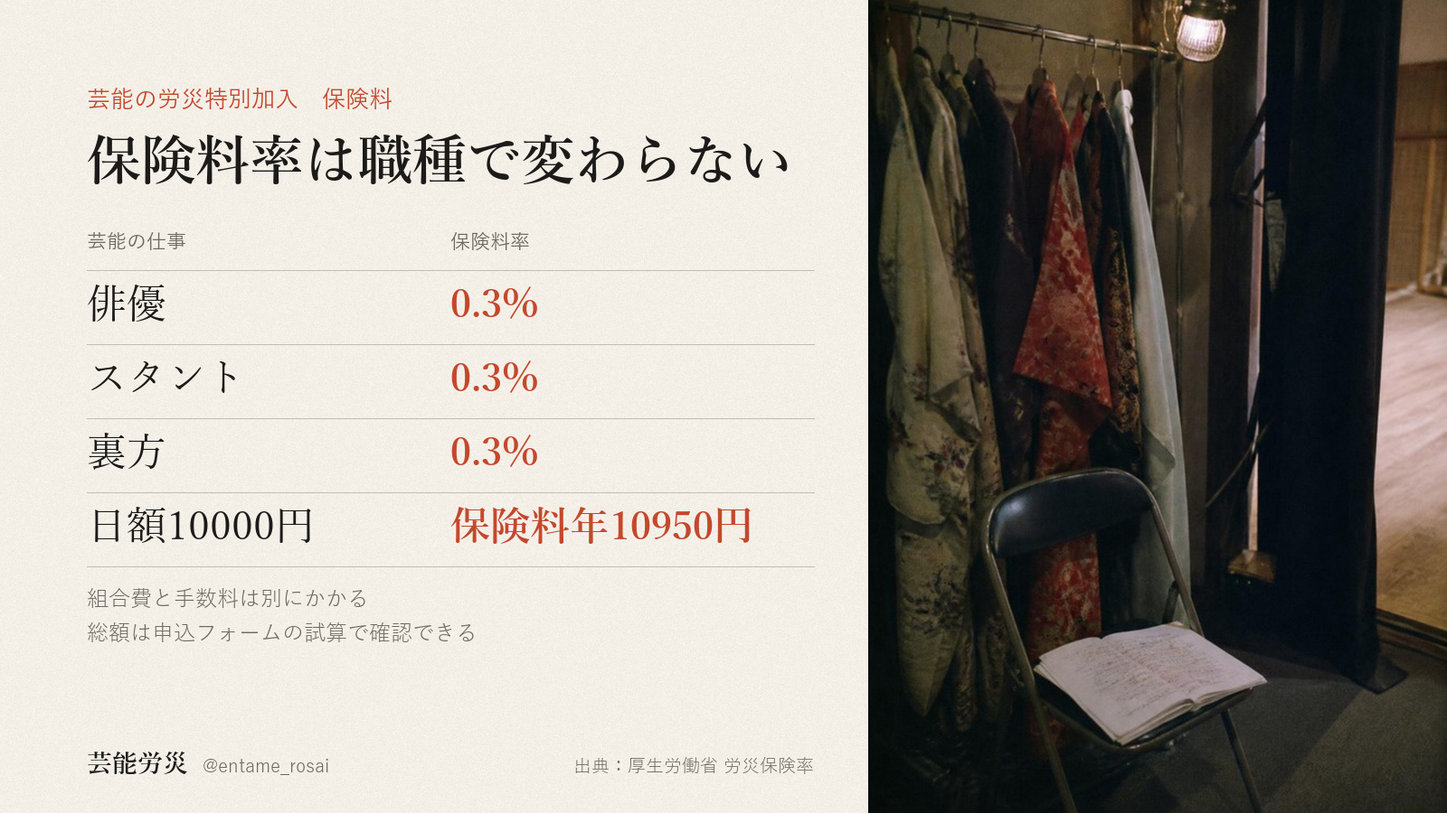
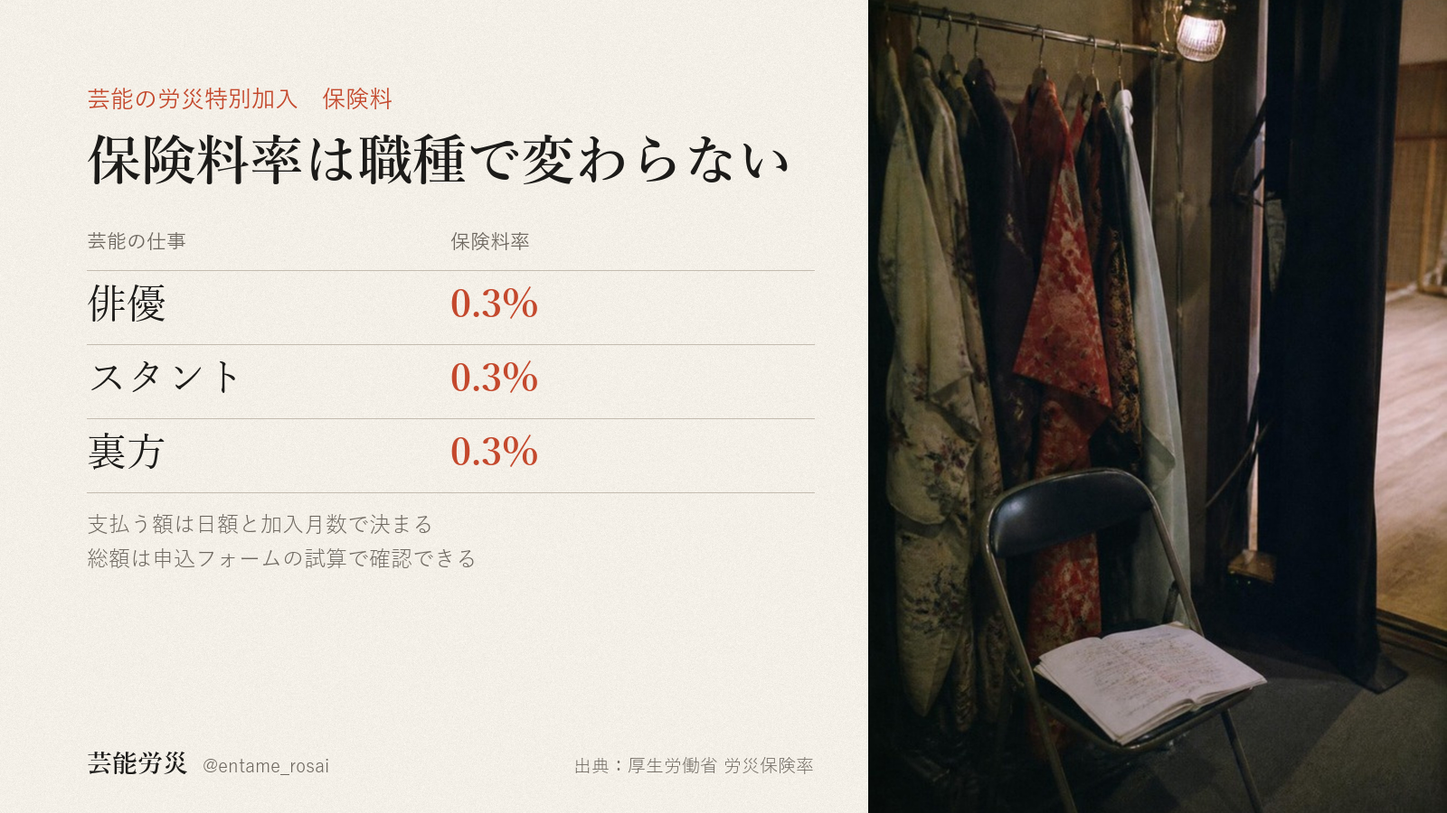
投稿デスク更新 2026-11-23（総額表記を修正）

Changed region(s): [[0.0625, 0.6222, 0.3125, 0.8089], [0.3125, 0.6222, 0.5312, 0.6844], [0.1875, 0.7778, 0.2188, 0.8089]]

diff --git a/index.html b/index.html
@@ -351,7 +351,7 @@ dialog img{width:100%;height:auto;border-radius:18px;display:block}
 <div class="toast" id="toast">コピーしました</div>
 <dialog id="zoom"><img alt=""></dialog>
 
-<script id="desk-data" type="application/json">{"account":"@entame_rosai","days":[{"date":"2026-11-23","label":"11月23日（月）　今日","items":[{"key":"ig","date":"2026-11-01","label":"Instagram（@entame_rosai）","account":"@entame_rosai","text":"労災の特別加入は、申込のときに「何月から入るか」「何か月入るか」「給付基礎日額をいくらにするか」の3つを自分で決めます。\n\n何月から入るかは、11月1日時点の申込フォームでは2026年11月から2027年3月までの中から選べます。何か月入るかは1か月から。公演や撮影の期間に合わせて決められます。\n\n給付基礎日額は、補償の基準になる1日あたりの額です。3,500円から25,000円までの16段階から、実際の収入とは切り離して自分で選びます。\n\n毎月の支払いは、日額10,000円を選んだ場合で月1,600円。内訳は保険料912円、組合費500円、手数料188円です。ほかに入会事務手数料2,000円が初月だけかかるので、初月の支払いは3,600円です。保険料912円の部分は社会保険料控除の対象です。\n\nひとつ大事なことがあります。さかのぼって入ることはできません。補償は申込で選んだ月から始まり、それより前のけがは対象になりません。現場の予定が決まったら、先に手続きを済ませておく形です。\n\n手続きはプロフィール欄のサイトからできます。迷う点があれば、コメントに書いてもらえれば調べます。\n\n私たちは東京労働局長の承認を受けた労災保険特別加入団体で、加入の受付もしている当事者です。そのうえで書いています。特別加入を扱う団体は、私たちのほかにもあります。\n\n※給付の可否・金額は個別の状況により労働基準監督署が判断します。\n※金額は、給付基礎日額10,000円を選んだ場合の例です。","chars":628,"lines":16,"hashtags":0,"limit":0,"status":"生成済・未投稿（本人の投稿許可あり。Chrome で instagram.com を開く操作が承認待ちのまま5分応答がなく送信されず。次に本人がいるときに投稿する）","url":"","images":[{"name":"01.png","path":"assets/2026-11-01/instagram/01.png"},{"name":"02.png","path":"assets/2026-11-01/instagram/02.png"},{"name":"03.png","path":"assets/2026-11-01/instagram/03.png"},{"name":"04.png","path":"assets/2026-11-01/instagram/04.png"},{"name":"05.png","path":"assets/2026-11-01/instagram/05.png"},{"name":"06.png","path":"assets/2026-11-01/instagram/06.png"},{"name":"07.png","path":"assets/2026-11-01/instagram/07.png"}],"alt":"--- 1枚目 ---\n暗い劇場の舞台の縁に腰かけ、赤い客席を見ている人の後ろ姿の写真。文字：フリーランスの労災保険。加入の手続き。申込で決めることと毎月の支払い。さかのぼって入ることはできないので、先に手続きの中身をまとめました。芸能労災 @entame_rosai 01/07\n\n--- 2枚目 ---\n上半分は夕方の住宅街の路上で、ブームマイクを掲げる録音係とカメラを担ぐ撮影係の後ろ姿の写真。下は生成り色の紙面。文字：申込で決めること1。何月から入るか。開始月は申込のときに選びます。11月1日時点では、2026年11月から2027年3月までの中から選べます。補償は、選んだ月から始まります。出典：当団体申込フォーム（11月1日時点）。02/07\n\n--- 3枚目 ---\n右に、屋外のカメラ機材とモニターを操作する手の縦長写真。左は紙面。文字：申込で決めること2。何か月入るか。加入期間は1か月から選べます。公演や撮影の期間に合わせて決められます。何月から何か月かを申込のときにあわせて決めます。出典：当団体申込フォーム（11月1日時点）。03/07\n\n--- 4枚目 ---\n文字だけの紙面。申込で決めること3。16段階。給付基礎日額を3,500円から25,000円まで。4列の一覧：3,500、4,000、5,000、6,000、7,000、8,000、9,000、10,000（朱色）、12,000、14,000、16,000、18,000、20,000、22,000、24,000、25,000。単位は円。補償の基準になる1日あたりの額で、実際の収入とは切り離して自分で選びます。朱色の10,000円を次のページの例に使います。出典：労災保険法（特別加入）。04/07\n\n--- 5枚目 ---\n文字だけの紙面。毎月の支払い。日額10,000円なら月1,600円。表：内訳／月額。保険料 912円。組合費 500円。手数料 188円。合計 1,600円。ほかに入会事務手数料2,000円が初月だけかかります。初月の支払いは3,600円です。支払いのうち保険料912円の部分は、社会保険料控除の対象です。出典：当団体申込フォーム（11月1日時点）。05/07\n\n--- 6枚目 ---\n上に、黒い服のスタッフ2人が大きな機材ケースを運ぶ後ろ姿の写真の帯。下は紙面。文字：大事なこと。さかのぼって入ることはできない。補償の開始：申込で選んだ月から。それより前のけが：対象外。現場の予定が決まったら：先に手続き。手続きはプロフィール欄のサイトから。迷う点があれば、コメントに書いてもらえれば調べます。出典：当団体申込フォーム（11月1日時点）。06/07\n\n--- 7枚目 ---\n舞台袖の衣装ラックと、パイプ椅子の上に開いた台本の写真を暗くした全面。文字：入る月と期間は自分で決められます。何月から何か月入るか、日額をいくらにするか。申込のときに自分で選べます。迷う点があれば、コメントに書いてもらえれば調べます。私たちは東京労働局長の承認を受けた労災保険特別加入団体で、加入の受付もしている当事者です。そのうえで書いています。特別加入を扱う団体は、私たちのほかにもあります。※給付の可否・金額は個別の状況により労働基準監督署が判断します。※金額は、給付基礎日額10,000円を選んだ場合の例です。芸能労災 @entame_rosai 07/07","check":{"errors":[],"warns":[]},"made":"2026-11-01","slot":"2026-11-23"},{"key":"x","date":"2026-11-14","label":"X（@entame_rosai）","account":"@entame_rosai","text":"労災の特別加入で受け取る給付に税金はかかりません。払った保険料は全額が社会保険料控除の対象です。日額10,000円を選んだ場合の支払いは月1,600円（保険料912円＋組合費500円＋手数料188円）と入会事務手数料2,000円。控除の対象は保険料です。\n（労災保険法・所得税法）","chars":139,"lines":2,"hashtags":0,"limit":140,"status":"（台帳に記載なし）","url":"","images":[{"name":"x_image.png","path":"assets/2026-11-14/x_image/x_image.png"}],"alt":"稽古場の木の机に、開いた台本と鉛筆が置かれている写真。奥に折りたたみ椅子と窓。左側の紙面に次の文字。「芸能の労災特別加入　税金の扱い」「給付に税金はかかりません」「受け取る給付は非課税　払った保険料は全額が社会保険料控除の対象」「日額10,000円を選んだ場合　月1,600円　保険料912円＋組合費500円＋手数料188円　ほかに入会事務手数料2,000円　控除の対象は保険料です」「芸能労災 @entame_rosai」「出典：労災保険法　所得税法」","check":{"errors":[],"warns":[]},"made":"2026-11-14","slot":"2026-11-23"}]},{"date":"2026-11-24","label":"11月24日（火）　投稿予定","items":[{"key":"x","date":"2026-11-15","label":"X（@entame_rosai）","account":"@entame_rosai","text":"労災の特別加入で、仕事中のけがにより働けない日は休業の給付があります。日額10,000円を選んだ場合、1日8,000円（休業補償給付60%＋特別支給金20%）。4日目からで、まったく働けない日が対象です。期間の上限はありません。（労災保険法・労災保険特別支給金規則）","chars":133,"lines":1,"hashtags":0,"limit":140,"status":"（台帳に記載なし）","url":"","images":[{"name":"x_image.png","path":"assets/2026-11-15/x_image/x_image.png"}],"alt":"左に生成りの紙、右に写真。写真は電球の並んだ鏡のある楽屋で、鏡の前に化粧筆の入った容器と椅子が置かれている。人は写っていない。\n画像の文字：「芸能の労災特別加入　休業の給付」「80%」「働けない日は1日につき 給付基礎日額の80%」「日額10,000円を選んだ場合　1日8,000円」「休業補償給付60%＋特別支給金20%」「4日目から　まったく働けない日が対象　期間の上限なし」「芸能労災 @entame_rosai」「出典：労災保険法　労災保険特別支給金規則」","check":{"errors":[],"warns":[]},"made":"2026-11-15","slot":"2026-11-24"}]},{"date":"2026-11-25","label":"11月25日（水）　投稿予定","items":[{"key":"x","date":"2026-11-16","label":"X（@entame_rosai）","account":"@entame_rosai","text":"労災の特別加入の申込では、加入を始める月と、加入する月数を自分で選びます。日額10,000円を選んだ場合、11月から5か月の加入で支払総額は10,000円です（月1,600円×5か月＋入会事務手数料2,000円）。（げいのう労災 申込フォームの試算）","chars":125,"lines":1,"hashtags":0,"limit":140,"status":"（台帳に記載なし）","url":"","images":[{"name":"x_image.png","path":"assets/2026-11-16/x_image/x_image.png"}],"alt":"左に生成りの紙、右に写真。写真は暗い空間に吊られた舞台用のスポットライトが4灯並んで点いているところで、光の中に薄く煙が漂っている。人は写っていない。\n画像の文字：「芸能の労災特別加入　申込のしくみ」「始める月と月数は 自分で選ぶ」「11月から5か月の場合　金額」「月の支払い5か月分　8,000円」「入会事務手数料　2,000円」「支払総額　10,000円」「日額10,000円を選んだ場合　月の支払いは1,600円」「内訳＝保険料912円＋組合費500円＋手数料188円」「芸能労災 @entame_rosai」「出典：げいのう労災　申込フォームの試算」","check":{"errors":[],"warns":[]},"made":"2026-11-16","slot":"2026-11-25"}]},{"date":"2026-11-26","label":"11月26日（木）　投稿予定","items":[{"key":"x","date":"2026-11-17","label":"X（@entame_rosai）","account":"@entame_rosai","text":"労災の特別加入は2024年11月から、企業から仕事を受けるフリーランス全般に広がりました。芸能の仕事は2021年4月から対象です。日額10,000円を選んだ場合、11月から5か月で支払総額10,000円（入会事務手数料込み）。（厚生労働省／げいのう労災 申込フォームの試算）","chars":137,"lines":1,"hashtags":0,"limit":140,"status":"（台帳に記載なし）","url":"","images":[{"name":"x_image.png","path":"assets/2026-11-17/x_image/x_image.png"}],"alt":"左は生成りの紙の地に文字、右は暗い舞台の床を紫のスポットライト3灯が照らす写真。文字：芸能の労災特別加入　対象の広がり。芸能の仕事は2021年4月から対象。2024年11月からは企業から仕事を受けるフリーランス全般に広がった。日額10,000円を選んだ場合　11月から5か月で支払総額10,000円（入会事務手数料込み）。金額はげいのう労災 申込フォームの試算。出典：厚生労働省。芸能労災 @entame_rosai","check":{"errors":[],"warns":[]},"made":"2026-11-17","slot":"2026-11-26"}]},{"date":"2026-11-27","label":"11月27日（金）　投稿予定","items":[{"key":"x","date":"2026-11-18","label":"X（@entame_rosai）","account":"@entame_rosai","text":"労災の特別加入で、加入中に起きた仕事中のけがの給付は、すぐに請求しなくても受け取れます。請求の期限は治療費と休業の給付が2年、障がいの給付が5年。数え始めは給付ごとに違い、治療費は払った翌日、障がいは症状が固定した翌日からです。（労災保険法第42条）","chars":125,"lines":1,"hashtags":0,"limit":140,"status":"（台帳に記載なし）","url":"","images":[{"name":"x_image.png","path":"assets/2026-11-18/x_image/x_image.png"}],"alt":"ライブ会場の客席後方で、音響担当の手がミキサー卓のつまみを操作している写真。奥のステージではギターを持った演奏者に照明が当たっている。左側の文字：芸能の労災特別加入　給付の請求。加入中のけがは　すぐでなくても請求できる。給付と請求の期限の表：治療費 2年、休業 2年、障がい 5年。加入前のけがは対象外。数え始めは給付ごとに違う。治療費は払った翌日から　障がいは症状固定の翌日から。出典：労災保険法第42条。芸能労災 @entame_rosai","check":{"errors":[],"warns":[]},"made":"2026-11-18","slot":"2026-11-27"}]},{"date":"2026-11-28","label":"11月28日（土）　投稿予定","items":[{"key":"x","date":"2026-11-19","label":"X（@entame_rosai）","account":"@entame_rosai","text":"労災の特別加入で仕事中にけがをしたとき、労災保険の指定医療機関で治療を受ければ、窓口での支払いはありません。指定外の病院でいったん払った場合も、あとからその費用を請求できます。治療費の扱いは、選んだ給付基礎日額で変わりません。（労災保険法第13条）","chars":124,"lines":1,"hashtags":0,"limit":140,"status":"（台帳に記載なし）","url":"","images":[{"name":"x_image.png","path":"assets/2026-11-19/x_image/x_image.png"}],"alt":"左は生成りの紙の地に文字、右は木の床に座るダンサーの足元の写真（黒いパンツにベージュのバレエシューズ）。文字は「芸能の労災特別加入　仕事中のけがの治療費」「指定医療機関なら　窓口での支払いなし」。左の列「指定医療機関　窓口で　支払いは　なし」、右の列「指定外の病院　いったん払う　その費用を　あとで請求」。下に「治療費の扱いは選んだ給付基礎日額で変わらない」「出典：労災保険法第13条」「芸能労災　@entame_rosai」。","check":{"errors":[],"warns":[]},"made":"2026-11-19","slot":"2026-11-28"}]},{"date":"2026-11-29","label":"11月29日（日）　投稿予定","items":[{"key":"x","date":"2026-11-20","label":"X（@entame_rosai）","account":"@entame_rosai","text":"労災の特別加入は、加入を始める月を申込のときに自分で選びます。対象は加入後の仕事中のけがで、さかのぼって加入はできません。日額10,000円を選んだ場合、5か月で支払総額10,000円です（手数料・入会事務手数料込み）。（労災保険法／当団体申込フォーム）","chars":127,"lines":1,"hashtags":0,"limit":140,"status":"（台帳に記載なし）","url":"","images":[{"name":"x_image.png","path":"assets/2026-11-20/x_image/x_image.png"}],"alt":"左は生成り色の紙の地に文字、右は写真。写真は、客席が無人の劇場で、舞台の縁に腰かけて客席のほうを向く人の後ろ姿。画像の文字：芸能の労災特別加入　加入の始まり／加入を始める月は　申込のときに選ぶ／対象は加入した後の仕事中のけが　さかのぼって加入はできない／日額10000円を選んだ場合　5か月で支払総額10000円（手数料込み）／芸能労災　@entame_rosai／出典：労災保険法／当団体申込フォームの試算","check":{"errors":[],"warns":[]},"made":"2026-11-20","slot":"2026-11-29"}]},{"date":"2026-11-30","label":"11月30日（月）　投稿予定","items":[{"key":"x","date":"2026-11-21","label":"X（@entame_rosai）","account":"@entame_rosai","text":"芸能の特別加入は、健康状態の審査がありません。年齢や持病、体を張る仕事を理由に断られることも、保険料が上がることもありません。対象は加入後の仕事中のけがや病気です。日額10,000円で5か月加入なら総額10,000円（入会事務手数料込み）。（労災保険法／当団体申込フォーム）","chars":137,"lines":1,"hashtags":0,"limit":140,"status":"（台帳に記載なし）","url":"","images":[{"name":"x_image.png","path":"assets/2026-11-21/x_image/x_image.png"}],"alt":"青いマットの稽古場で、黒い練習着の人が背中を向けて脚を大きく開き、ストレッチをしている写真。左側の生成りの紙面に文字。「芸能の労災特別加入　加入のとき」「健康状態の審査はない」。表「加入のとき／特別加入では」：健康状態の審査　なし。年齢や持病　断られない。体を張る仕事　保険料は同じ。対象になるけが　加入後の仕事中。「日額10000円で5か月加入した場合　総額10000円（入会事務手数料込み）」「出典：労災保険法／当団体申込フォームの試算」「芸能労災 @entame_rosai」","check":{"errors":[],"warns":[]},"made":"2026-11-21","slot":"2026-11-30"}]},{"date":"2026-12-01","label":"12月1日（火）　投稿予定","items":[{"key":"x","date":"2026-11-22","label":"X（@entame_rosai）","account":"@entame_rosai","text":"特別加入は給付基礎日額を3,500〜25,000円の16段階から選べます。休業・年金の給付と保険料はこの額で決まり、治療費は同じです。日額10,000円なら働けない日は4日目から1日8,000円、支払いは5か月で計10,000円（入会事務手数料込み）。（労災保険法／申込フォーム）","chars":140,"lines":1,"hashtags":0,"limit":140,"status":"（台帳に記載なし）","url":"","images":[{"name":"x_image.png","path":"assets/2026-11-22/x_image/x_image.png"}],"alt":"左は生成りの紙の上に文字、右は写真。写真は舞台袖の進行卓で、ヘッドセットと進行表に手を置く人の奥に、照明の当たった舞台と俳優が見える。画像の文字：労災の特別加入　給付基礎日額／16段階／3,500円から25,000円まで　自分で選べる／休業や年金の給付と保険料はこの額で決まり　治療費は変わらない／日額10,000円なら働けない日は4日目から1日8,000円／芸能労災 @entame_rosai／出典：労災保険法／当団体申込フォーム","check":{"errors":[],"warns":[]},"made":"2026-11-22","slot":"2026-12-01"}]},{"date":"2026-12-02","label":"12月2日（水）　投稿予定","items":[{"key":"x","date":"2026-11-23","label":"X（@entame_rosai）","account":"@entame_rosai","text":"労災の特別加入の保険料率は、芸能の仕事なら職種で変わりません。俳優もスタントも裏方も0.3%。日額10,000円なら保険料は年10,950円で、組合費・手数料は別です。総額は申込フォームの試算で。（厚生労働省 労災保険率）","chars":111,"lines":1,"hashtags":0,"limit":140,"status":"（台帳に記載なし）","url":"","images":[{"name":"x_image.png","path":"assets/2026-11-23/x_image/x_image.png"}],"alt":"楽屋の写真。衣装が掛かったハンガーラックの前に、台本が開いて置かれたパイプ椅子。左は紙色の表で、見出しは「保険料率は職種で変わらない」。俳優 0.3%、スタント 0.3%、裏方 0.3%。日額10000円 保険料年10950円。組合費と手数料は別にかかる。総額は申込フォームの試算で確認できる。出典：厚生労働省 労災保険率。","check":{"errors":[],"warns":["競合の調査由来かもしれない数字/語: 0.3%　… …芸能の仕事なら職種で変わりません。俳優もスタントも裏方も0.3%。日額10,000円なら保険料は年10,950円で、組合…"]},"made":"2026-11-23","slot":"2026-12-02"}]}],"todo":[{"due":"今日","who":"作業者","title":"X（@entame_rosai）の今日の投稿","detail":"画像1枚を添付 → 代替テキストを入れる → 本文を貼る、の順。代替テキストは直近の投稿で入っていません。X は投稿後に足せません。","cid":"c-2026-11-14-x"},{"due":"今日","who":"作業者","title":"Instagram を1本投稿（11/1（日）作成の分）","detail":"画像7枚をこの順で添付し、1枚ずつ代替テキストを入れる。未投稿は1本。前回の公開から1週間あけて1本ずつ。","cid":"c-2026-11-01-ig"},{"due":"未公開のまま","who":"矢部さん","title":"note の記事を公開（09/18作成）","detail":"このデスクには載っていません（note は矢部さんの手元の下書き）。公開するときは見出し画像を必ず設定。","cid":""},{"due":"未公開のまま","who":"矢部さん","title":"note の記事を公開（10/09作成）","detail":"このデスクには載っていません（note は矢部さんの手元の下書き）。公開するときは見出し画像を必ず設定。","cid":""},{"due":"投稿のたび","who":"作業者","title":"投稿URLと名前を、そのカードの欄に保存","detail":"記録が集まらないと、何が出たかを後から確かめられません。","cid":""}],"builtAt":"2026-11-23 08:06","today":"2026-11-23","followers":{"date":"10-13","x":5,"ig":21,"note":0},"hero":"assets/hero.jpg","endpoint":"https://script.google.com/macros/s/AKfycbxhxM75PszpPOX_HDJ4yuBmQSqu1b7CXq2sbCxlqTZ_TyF8hROH2MyKnYNU11avb8UQCA/exec"}</script>
+<script id="desk-data" type="application/json">{"account":"@entame_rosai","days":[{"date":"2026-11-23","label":"11月23日（月）　今日","items":[{"key":"ig","date":"2026-11-01","label":"Instagram（@entame_rosai）","account":"@entame_rosai","text":"労災の特別加入は、申込のときに「何月から入るか」「何か月入るか」「給付基礎日額をいくらにするか」の3つを自分で決めます。\n\n何月から入るかは、11月1日時点の申込フォームでは2026年11月から2027年3月までの中から選べます。何か月入るかは1か月から。公演や撮影の期間に合わせて決められます。\n\n給付基礎日額は、補償の基準になる1日あたりの額です。3,500円から25,000円までの16段階から、実際の収入とは切り離して自分で選びます。\n\n毎月の支払いは、日額10,000円を選んだ場合で月1,600円。内訳は保険料912円、組合費500円、手数料188円です。ほかに入会事務手数料2,000円が初月だけかかるので、初月の支払いは3,600円です。保険料912円の部分は社会保険料控除の対象です。\n\nひとつ大事なことがあります。さかのぼって入ることはできません。補償は申込で選んだ月から始まり、それより前のけがは対象になりません。現場の予定が決まったら、先に手続きを済ませておく形です。\n\n手続きはプロフィール欄のサイトからできます。迷う点があれば、コメントに書いてもらえれば調べます。\n\n私たちは東京労働局長の承認を受けた労災保険特別加入団体で、加入の受付もしている当事者です。そのうえで書いています。特別加入を扱う団体は、私たちのほかにもあります。\n\n※給付の可否・金額は個別の状況により労働基準監督署が判断します。\n※金額は、給付基礎日額10,000円を選んだ場合の例です。","chars":628,"lines":16,"hashtags":0,"limit":0,"status":"生成済・未投稿（本人の投稿許可あり。Chrome で instagram.com を開く操作が承認待ちのまま5分応答がなく送信されず。次に本人がいるときに投稿する）","url":"","images":[{"name":"01.png","path":"assets/2026-11-01/instagram/01.png"},{"name":"02.png","path":"assets/2026-11-01/instagram/02.png"},{"name":"03.png","path":"assets/2026-11-01/instagram/03.png"},{"name":"04.png","path":"assets/2026-11-01/instagram/04.png"},{"name":"05.png","path":"assets/2026-11-01/instagram/05.png"},{"name":"06.png","path":"assets/2026-11-01/instagram/06.png"},{"name":"07.png","path":"assets/2026-11-01/instagram/07.png"}],"alt":"--- 1枚目 ---\n暗い劇場の舞台の縁に腰かけ、赤い客席を見ている人の後ろ姿の写真。文字：フリーランスの労災保険。加入の手続き。申込で決めることと毎月の支払い。さかのぼって入ることはできないので、先に手続きの中身をまとめました。芸能労災 @entame_rosai 01/07\n\n--- 2枚目 ---\n上半分は夕方の住宅街の路上で、ブームマイクを掲げる録音係とカメラを担ぐ撮影係の後ろ姿の写真。下は生成り色の紙面。文字：申込で決めること1。何月から入るか。開始月は申込のときに選びます。11月1日時点では、2026年11月から2027年3月までの中から選べます。補償は、選んだ月から始まります。出典：当団体申込フォーム（11月1日時点）。02/07\n\n--- 3枚目 ---\n右に、屋外のカメラ機材とモニターを操作する手の縦長写真。左は紙面。文字：申込で決めること2。何か月入るか。加入期間は1か月から選べます。公演や撮影の期間に合わせて決められます。何月から何か月かを申込のときにあわせて決めます。出典：当団体申込フォーム（11月1日時点）。03/07\n\n--- 4枚目 ---\n文字だけの紙面。申込で決めること3。16段階。給付基礎日額を3,500円から25,000円まで。4列の一覧：3,500、4,000、5,000、6,000、7,000、8,000、9,000、10,000（朱色）、12,000、14,000、16,000、18,000、20,000、22,000、24,000、25,000。単位は円。補償の基準になる1日あたりの額で、実際の収入とは切り離して自分で選びます。朱色の10,000円を次のページの例に使います。出典：労災保険法（特別加入）。04/07\n\n--- 5枚目 ---\n文字だけの紙面。毎月の支払い。日額10,000円なら月1,600円。表：内訳／月額。保険料 912円。組合費 500円。手数料 188円。合計 1,600円。ほかに入会事務手数料2,000円が初月だけかかります。初月の支払いは3,600円です。支払いのうち保険料912円の部分は、社会保険料控除の対象です。出典：当団体申込フォーム（11月1日時点）。05/07\n\n--- 6枚目 ---\n上に、黒い服のスタッフ2人が大きな機材ケースを運ぶ後ろ姿の写真の帯。下は紙面。文字：大事なこと。さかのぼって入ることはできない。補償の開始：申込で選んだ月から。それより前のけが：対象外。現場の予定が決まったら：先に手続き。手続きはプロフィール欄のサイトから。迷う点があれば、コメントに書いてもらえれば調べます。出典：当団体申込フォーム（11月1日時点）。06/07\n\n--- 7枚目 ---\n舞台袖の衣装ラックと、パイプ椅子の上に開いた台本の写真を暗くした全面。文字：入る月と期間は自分で決められます。何月から何か月入るか、日額をいくらにするか。申込のときに自分で選べます。迷う点があれば、コメントに書いてもらえれば調べます。私たちは東京労働局長の承認を受けた労災保険特別加入団体で、加入の受付もしている当事者です。そのうえで書いています。特別加入を扱う団体は、私たちのほかにもあります。※給付の可否・金額は個別の状況により労働基準監督署が判断します。※金額は、給付基礎日額10,000円を選んだ場合の例です。芸能労災 @entame_rosai 07/07","check":{"errors":[],"warns":[]},"made":"2026-11-01","slot":"2026-11-23"},{"key":"x","date":"2026-11-14","label":"X（@entame_rosai）","account":"@entame_rosai","text":"労災の特別加入で受け取る給付に税金はかかりません。払った保険料は全額が社会保険料控除の対象です。日額10,000円を選んだ場合の支払いは月1,600円（保険料912円＋組合費500円＋手数料188円）と入会事務手数料2,000円。控除の対象は保険料です。\n（労災保険法・所得税法）","chars":139,"lines":2,"hashtags":0,"limit":140,"status":"（台帳に記載なし）","url":"","images":[{"name":"x_image.png","path":"assets/2026-11-14/x_image/x_image.png"}],"alt":"稽古場の木の机に、開いた台本と鉛筆が置かれている写真。奥に折りたたみ椅子と窓。左側の紙面に次の文字。「芸能の労災特別加入　税金の扱い」「給付に税金はかかりません」「受け取る給付は非課税　払った保険料は全額が社会保険料控除の対象」「日額10,000円を選んだ場合　月1,600円　保険料912円＋組合費500円＋手数料188円　ほかに入会事務手数料2,000円　控除の対象は保険料です」「芸能労災 @entame_rosai」「出典：労災保険法　所得税法」","check":{"errors":[],"warns":[]},"made":"2026-11-14","slot":"2026-11-23"}]},{"date":"2026-11-24","label":"11月24日（火）　投稿予定","items":[{"key":"x","date":"2026-11-15","label":"X（@entame_rosai）","account":"@entame_rosai","text":"労災の特別加入で、仕事中のけがにより働けない日は休業の給付があります。日額10,000円を選んだ場合、1日8,000円（休業補償給付60%＋特別支給金20%）。4日目からで、まったく働けない日が対象です。期間の上限はありません。（労災保険法・労災保険特別支給金規則）","chars":133,"lines":1,"hashtags":0,"limit":140,"status":"（台帳に記載なし）","url":"","images":[{"name":"x_image.png","path":"assets/2026-11-15/x_image/x_image.png"}],"alt":"左に生成りの紙、右に写真。写真は電球の並んだ鏡のある楽屋で、鏡の前に化粧筆の入った容器と椅子が置かれている。人は写っていない。\n画像の文字：「芸能の労災特別加入　休業の給付」「80%」「働けない日は1日につき 給付基礎日額の80%」「日額10,000円を選んだ場合　1日8,000円」「休業補償給付60%＋特別支給金20%」「4日目から　まったく働けない日が対象　期間の上限なし」「芸能労災 @entame_rosai」「出典：労災保険法　労災保険特別支給金規則」","check":{"errors":[],"warns":[]},"made":"2026-11-15","slot":"2026-11-24"}]},{"date":"2026-11-25","label":"11月25日（水）　投稿予定","items":[{"key":"x","date":"2026-11-16","label":"X（@entame_rosai）","account":"@entame_rosai","text":"労災の特別加入の申込では、加入を始める月と、加入する月数を自分で選びます。日額10,000円を選んだ場合、11月から5か月の加入で支払総額は10,000円です（月1,600円×5か月＋入会事務手数料2,000円）。（げいのう労災 申込フォームの試算）","chars":125,"lines":1,"hashtags":0,"limit":140,"status":"（台帳に記載なし）","url":"","images":[{"name":"x_image.png","path":"assets/2026-11-16/x_image/x_image.png"}],"alt":"左に生成りの紙、右に写真。写真は暗い空間に吊られた舞台用のスポットライトが4灯並んで点いているところで、光の中に薄く煙が漂っている。人は写っていない。\n画像の文字：「芸能の労災特別加入　申込のしくみ」「始める月と月数は 自分で選ぶ」「11月から5か月の場合　金額」「月の支払い5か月分　8,000円」「入会事務手数料　2,000円」「支払総額　10,000円」「日額10,000円を選んだ場合　月の支払いは1,600円」「内訳＝保険料912円＋組合費500円＋手数料188円」「芸能労災 @entame_rosai」「出典：げいのう労災　申込フォームの試算」","check":{"errors":[],"warns":[]},"made":"2026-11-16","slot":"2026-11-25"}]},{"date":"2026-11-26","label":"11月26日（木）　投稿予定","items":[{"key":"x","date":"2026-11-17","label":"X（@entame_rosai）","account":"@entame_rosai","text":"労災の特別加入は2024年11月から、企業から仕事を受けるフリーランス全般に広がりました。芸能の仕事は2021年4月から対象です。日額10,000円を選んだ場合、11月から5か月で支払総額10,000円（入会事務手数料込み）。（厚生労働省／げいのう労災 申込フォームの試算）","chars":137,"lines":1,"hashtags":0,"limit":140,"status":"（台帳に記載なし）","url":"","images":[{"name":"x_image.png","path":"assets/2026-11-17/x_image/x_image.png"}],"alt":"左は生成りの紙の地に文字、右は暗い舞台の床を紫のスポットライト3灯が照らす写真。文字：芸能の労災特別加入　対象の広がり。芸能の仕事は2021年4月から対象。2024年11月からは企業から仕事を受けるフリーランス全般に広がった。日額10,000円を選んだ場合　11月から5か月で支払総額10,000円（入会事務手数料込み）。金額はげいのう労災 申込フォームの試算。出典：厚生労働省。芸能労災 @entame_rosai","check":{"errors":[],"warns":[]},"made":"2026-11-17","slot":"2026-11-26"}]},{"date":"2026-11-27","label":"11月27日（金）　投稿予定","items":[{"key":"x","date":"2026-11-18","label":"X（@entame_rosai）","account":"@entame_rosai","text":"労災の特別加入で、加入中に起きた仕事中のけがの給付は、すぐに請求しなくても受け取れます。請求の期限は治療費と休業の給付が2年、障がいの給付が5年。数え始めは給付ごとに違い、治療費は払った翌日、障がいは症状が固定した翌日からです。（労災保険法第42条）","chars":125,"lines":1,"hashtags":0,"limit":140,"status":"（台帳に記載なし）","url":"","images":[{"name":"x_image.png","path":"assets/2026-11-18/x_image/x_image.png"}],"alt":"ライブ会場の客席後方で、音響担当の手がミキサー卓のつまみを操作している写真。奥のステージではギターを持った演奏者に照明が当たっている。左側の文字：芸能の労災特別加入　給付の請求。加入中のけがは　すぐでなくても請求できる。給付と請求の期限の表：治療費 2年、休業 2年、障がい 5年。加入前のけがは対象外。数え始めは給付ごとに違う。治療費は払った翌日から　障がいは症状固定の翌日から。出典：労災保険法第42条。芸能労災 @entame_rosai","check":{"errors":[],"warns":[]},"made":"2026-11-18","slot":"2026-11-27"}]},{"date":"2026-11-28","label":"11月28日（土）　投稿予定","items":[{"key":"x","date":"2026-11-19","label":"X（@entame_rosai）","account":"@entame_rosai","text":"労災の特別加入で仕事中にけがをしたとき、労災保険の指定医療機関で治療を受ければ、窓口での支払いはありません。指定外の病院でいったん払った場合も、あとからその費用を請求できます。治療費の扱いは、選んだ給付基礎日額で変わりません。（労災保険法第13条）","chars":124,"lines":1,"hashtags":0,"limit":140,"status":"（台帳に記載なし）","url":"","images":[{"name":"x_image.png","path":"assets/2026-11-19/x_image/x_image.png"}],"alt":"左は生成りの紙の地に文字、右は木の床に座るダンサーの足元の写真（黒いパンツにベージュのバレエシューズ）。文字は「芸能の労災特別加入　仕事中のけがの治療費」「指定医療機関なら　窓口での支払いなし」。左の列「指定医療機関　窓口で　支払いは　なし」、右の列「指定外の病院　いったん払う　その費用を　あとで請求」。下に「治療費の扱いは選んだ給付基礎日額で変わらない」「出典：労災保険法第13条」「芸能労災　@entame_rosai」。","check":{"errors":[],"warns":[]},"made":"2026-11-19","slot":"2026-11-28"}]},{"date":"2026-11-29","label":"11月29日（日）　投稿予定","items":[{"key":"x","date":"2026-11-20","label":"X（@entame_rosai）","account":"@entame_rosai","text":"労災の特別加入は、加入を始める月を申込のときに自分で選びます。対象は加入後の仕事中のけがで、さかのぼって加入はできません。日額10,000円を選んだ場合、5か月で支払総額10,000円です（手数料・入会事務手数料込み）。（労災保険法／当団体申込フォーム）","chars":127,"lines":1,"hashtags":0,"limit":140,"status":"（台帳に記載なし）","url":"","images":[{"name":"x_image.png","path":"assets/2026-11-20/x_image/x_image.png"}],"alt":"左は生成り色の紙の地に文字、右は写真。写真は、客席が無人の劇場で、舞台の縁に腰かけて客席のほうを向く人の後ろ姿。画像の文字：芸能の労災特別加入　加入の始まり／加入を始める月は　申込のときに選ぶ／対象は加入した後の仕事中のけが　さかのぼって加入はできない／日額10000円を選んだ場合　5か月で支払総額10000円（手数料込み）／芸能労災　@entame_rosai／出典：労災保険法／当団体申込フォームの試算","check":{"errors":[],"warns":[]},"made":"2026-11-20","slot":"2026-11-29"}]},{"date":"2026-11-30","label":"11月30日（月）　投稿予定","items":[{"key":"x","date":"2026-11-21","label":"X（@entame_rosai）","account":"@entame_rosai","text":"芸能の特別加入は、健康状態の審査がありません。年齢や持病、体を張る仕事を理由に断られることも、保険料が上がることもありません。対象は加入後の仕事中のけがや病気です。日額10,000円で5か月加入なら総額10,000円（入会事務手数料込み）。（労災保険法／当団体申込フォーム）","chars":137,"lines":1,"hashtags":0,"limit":140,"status":"（台帳に記載なし）","url":"","images":[{"name":"x_image.png","path":"assets/2026-11-21/x_image/x_image.png"}],"alt":"青いマットの稽古場で、黒い練習着の人が背中を向けて脚を大きく開き、ストレッチをしている写真。左側の生成りの紙面に文字。「芸能の労災特別加入　加入のとき」「健康状態の審査はない」。表「加入のとき／特別加入では」：健康状態の審査　なし。年齢や持病　断られない。体を張る仕事　保険料は同じ。対象になるけが　加入後の仕事中。「日額10000円で5か月加入した場合　総額10000円（入会事務手数料込み）」「出典：労災保険法／当団体申込フォームの試算」「芸能労災 @entame_rosai」","check":{"errors":[],"warns":[]},"made":"2026-11-21","slot":"2026-11-30"}]},{"date":"2026-12-01","label":"12月1日（火）　投稿予定","items":[{"key":"x","date":"2026-11-22","label":"X（@entame_rosai）","account":"@entame_rosai","text":"特別加入は給付基礎日額を3,500〜25,000円の16段階から選べます。休業・年金の給付と保険料はこの額で決まり、治療費は同じです。日額10,000円なら働けない日は4日目から1日8,000円、支払いは5か月で計10,000円（入会事務手数料込み）。（労災保険法／申込フォーム）","chars":140,"lines":1,"hashtags":0,"limit":140,"status":"（台帳に記載なし）","url":"","images":[{"name":"x_image.png","path":"assets/2026-11-22/x_image/x_image.png"}],"alt":"左は生成りの紙の上に文字、右は写真。写真は舞台袖の進行卓で、ヘッドセットと進行表に手を置く人の奥に、照明の当たった舞台と俳優が見える。画像の文字：労災の特別加入　給付基礎日額／16段階／3,500円から25,000円まで　自分で選べる／休業や年金の給付と保険料はこの額で決まり　治療費は変わらない／日額10,000円なら働けない日は4日目から1日8,000円／芸能労災 @entame_rosai／出典：労災保険法／当団体申込フォーム","check":{"errors":[],"warns":[]},"made":"2026-11-22","slot":"2026-12-01"}]},{"date":"2026-12-02","label":"12月2日（水）　投稿予定","items":[{"key":"x","date":"2026-11-23","label":"X（@entame_rosai）","account":"@entame_rosai","text":"労災の特別加入の保険料率は、芸能の仕事なら職種で変わりません。俳優もスタントも裏方も0.3%です。支払う額は日額と加入月数で決まり、組合費・手数料・入会事務手数料を含む総額は、申込フォームの試算で確認できます。（厚生労働省 労災保険率）","chars":118,"lines":1,"hashtags":0,"limit":140,"status":"（台帳に記載なし）","url":"","images":[{"name":"x_image.png","path":"assets/2026-11-23/x_image/x_image.png"}],"alt":"楽屋の写真。衣装が掛かったハンガーラックの前に、台本が開いて置かれたパイプ椅子。左は紙色の表で、見出しは「保険料率は職種で変わらない」。俳優 0.3%、スタント 0.3%、裏方 0.3%。支払う額は日額と加入月数で決まる。総額は申込フォームの試算で確認できる。出典：厚生労働省 労災保険率。","check":{"errors":[],"warns":["競合の調査由来かもしれない数字/語: 0.3%　… …芸能の仕事なら職種で変わりません。俳優もスタントも裏方も0.3%です。支払う額は日額と加入月数で決まり、組合費・手数料・…"]},"made":"2026-11-23","slot":"2026-12-02"}]}],"todo":[{"due":"今日","who":"作業者","title":"X（@entame_rosai）の今日の投稿","detail":"画像1枚を添付 → 代替テキストを入れる → 本文を貼る、の順。代替テキストは直近の投稿で入っていません。X は投稿後に足せません。","cid":"c-2026-11-14-x"},{"due":"今日","who":"作業者","title":"Instagram を1本投稿（11/1（日）作成の分）","detail":"画像7枚をこの順で添付し、1枚ずつ代替テキストを入れる。未投稿は1本。前回の公開から1週間あけて1本ずつ。","cid":"c-2026-11-01-ig"},{"due":"未公開のまま","who":"矢部さん","title":"note の記事を公開（09/18作成）","detail":"このデスクには載っていません（note は矢部さんの手元の下書き）。公開するときは見出し画像を必ず設定。","cid":""},{"due":"未公開のまま","who":"矢部さん","title":"note の記事を公開（10/09作成）","detail":"このデスクには載っていません（note は矢部さんの手元の下書き）。公開するときは見出し画像を必ず設定。","cid":""},{"due":"投稿のたび","who":"作業者","title":"投稿URLと名前を、そのカードの欄に保存","detail":"記録が集まらないと、何が出たかを後から確かめられません。","cid":""}],"builtAt":"2026-11-23 08:07","today":"2026-11-23","followers":{"date":"10-13","x":5,"ig":21,"note":0},"hero":"assets/hero.jpg","endpoint":"https://script.google.com/macros/s/AKfycbxhxM75PszpPOX_HDJ4yuBmQSqu1b7CXq2sbCxlqTZ_TyF8hROH2MyKnYNU11avb8UQCA/exec"}</script>
 <script>
 (function(){
   var DATA = JSON.parse(document.getElementById('desk-data').textContent);
